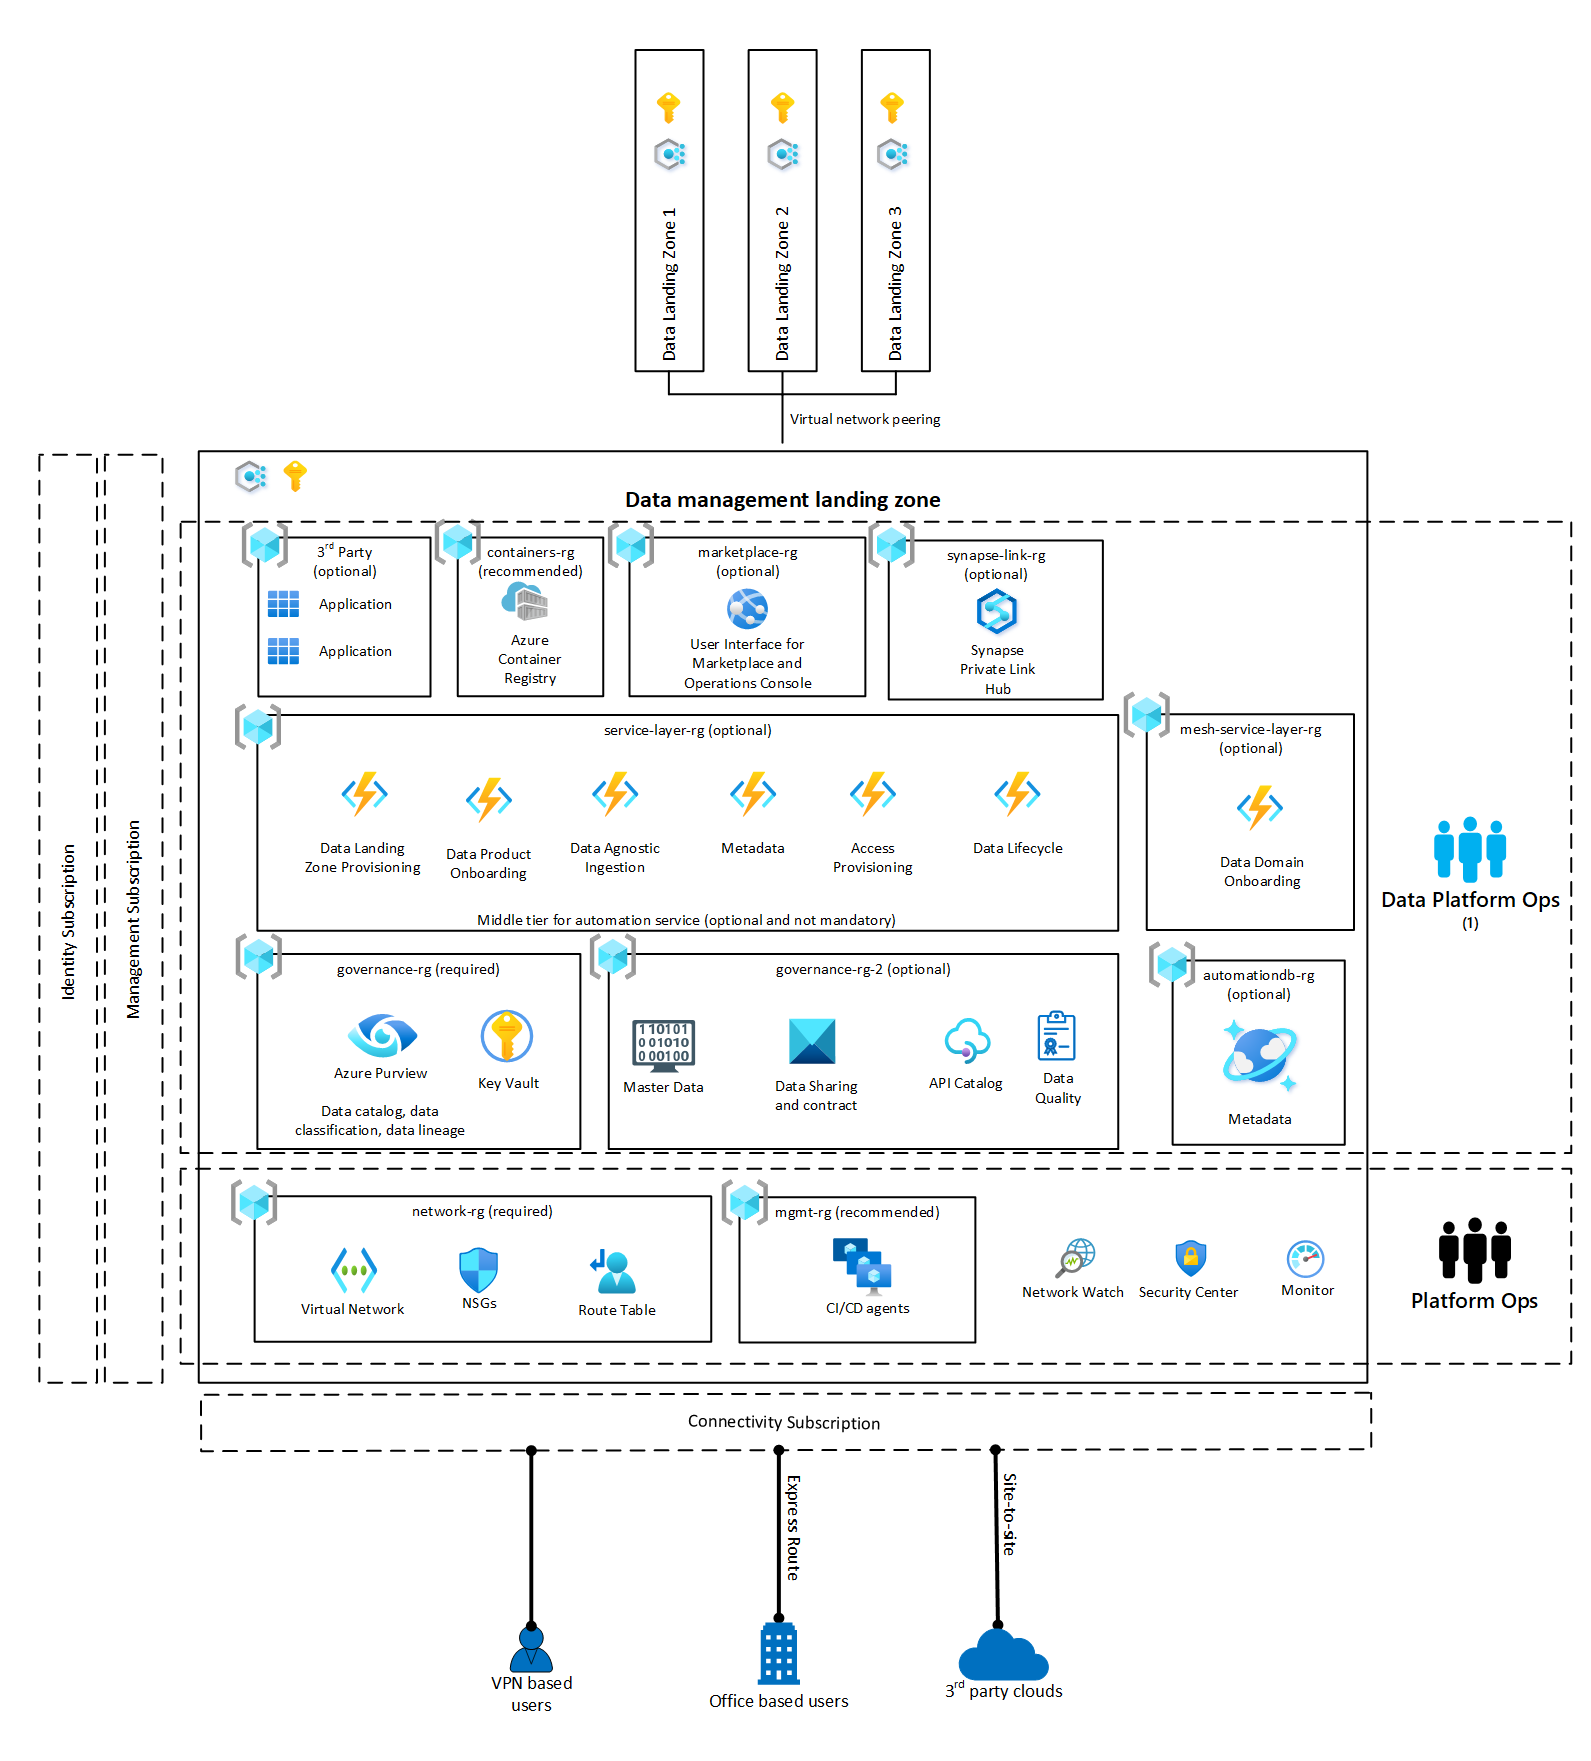
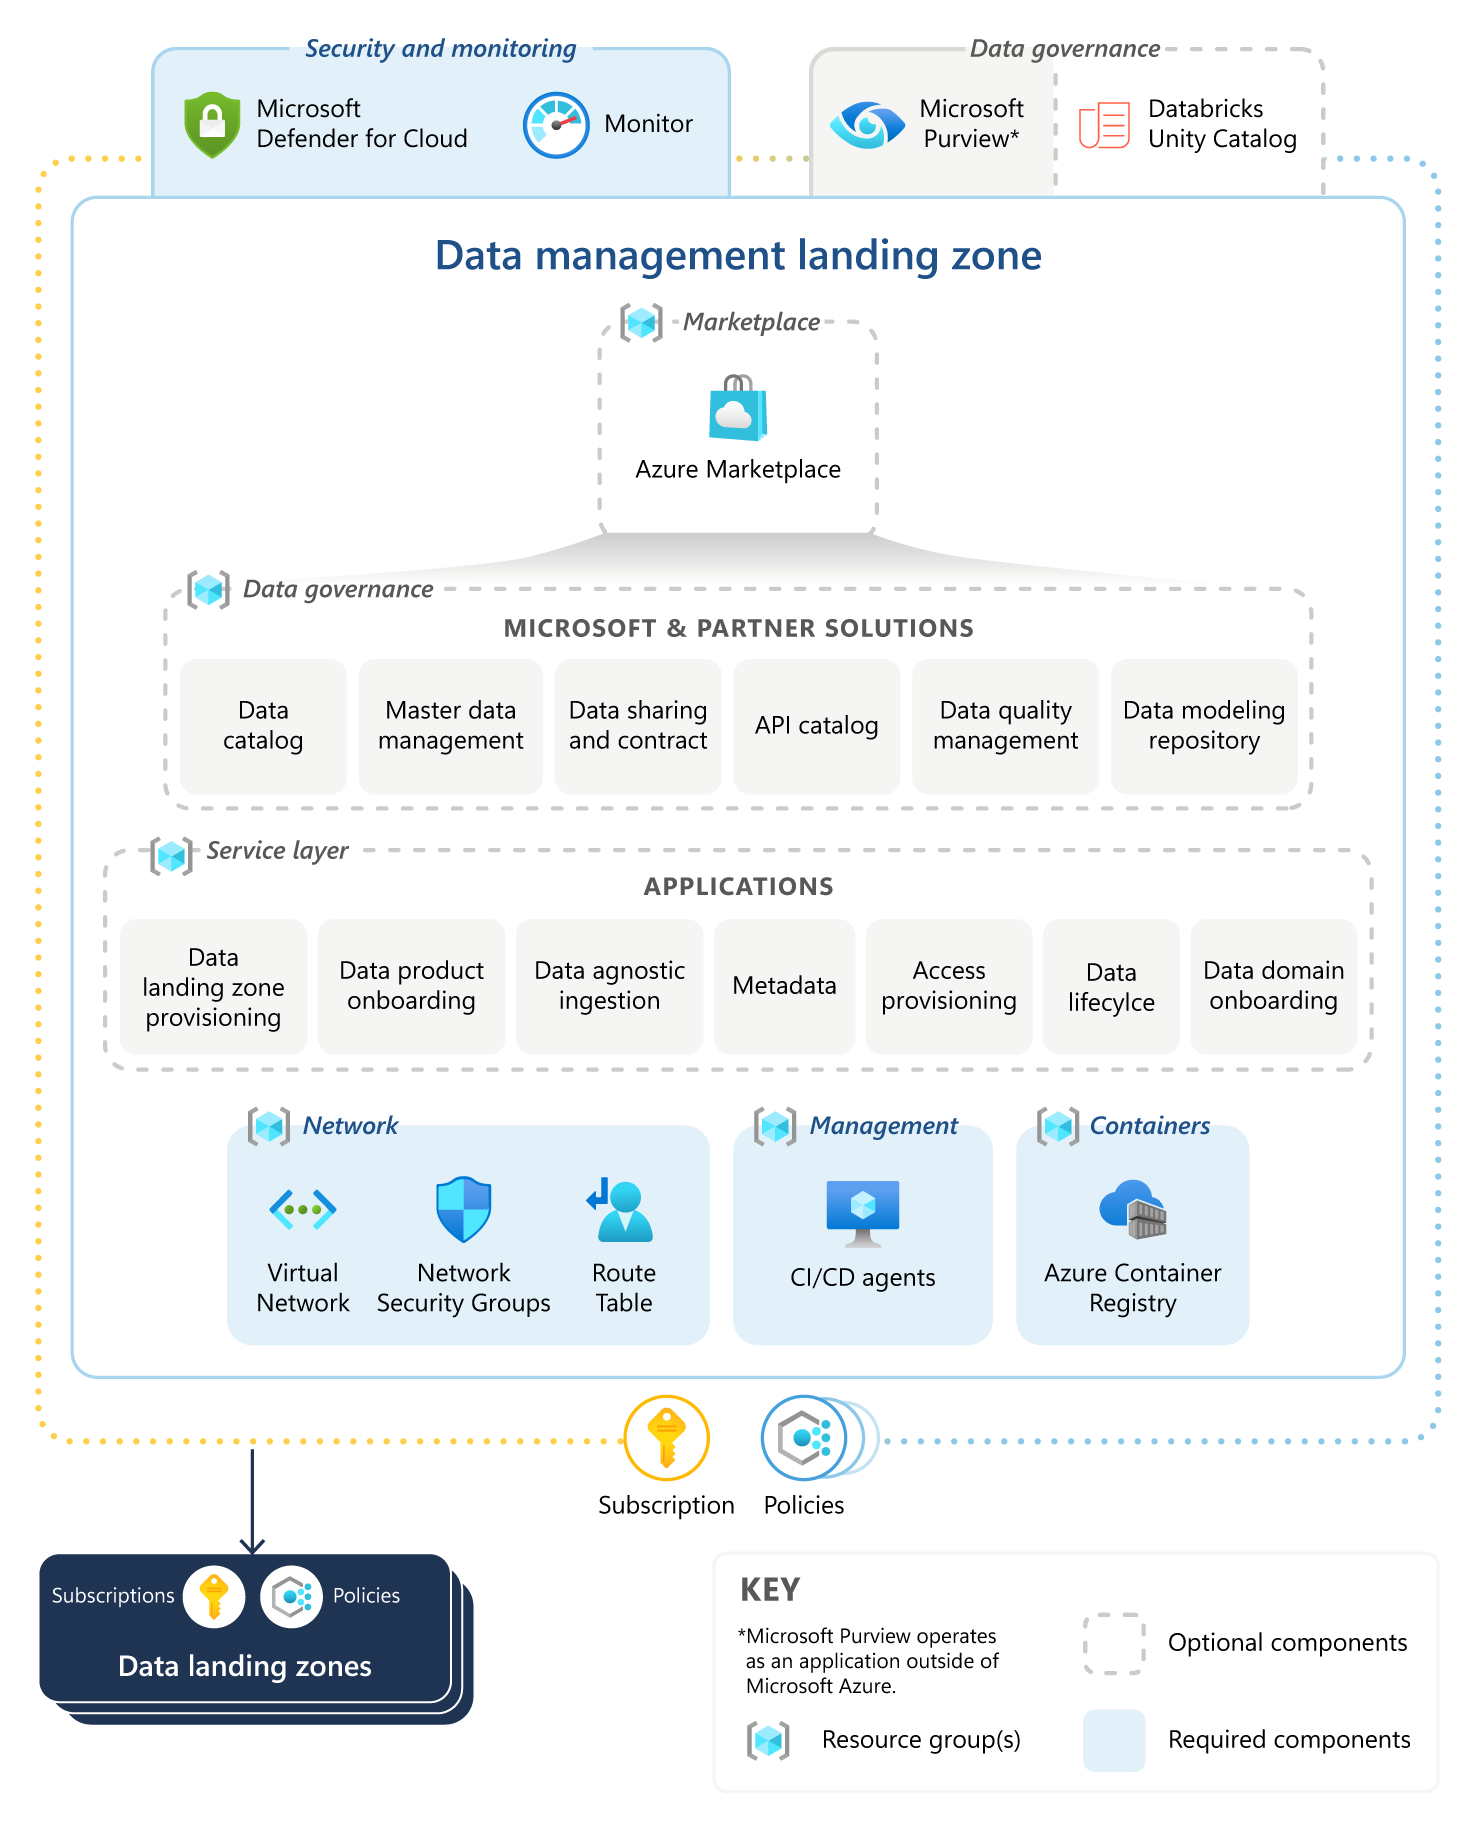
Update to data management landng zone

diff --git a/docs/scenarios/cloud-scale-analytics/architectures/data-management-landing-zone.md b/docs/scenarios/cloud-scale-analytics/architectures/data-management-landing-zone.md
@@ -3,7 +3,7 @@ title: Cloud-scale analytics data management landing zone overview
 description: Gain an overview of cloud-scale analytics data management landing zone in Azure
 author: mboswell
 ms.author: mboswell
-ms.date: 03/22/2022
+ms.date: 11/11/2024
 ms.topic: conceptual
 ms.custom: e2e-data-management, think-tank
 ---
@@ -16,7 +16,7 @@ The data management landing zone is a management function and is central to clou
 
 Your data management landing zone is a separate subscription that has the same standard Azure landing zone services. It allows data governance of your data via crawlers, which connect to your data lakes and polyglot storage in your data landing zones. Virtual network peering connects your data management landing zone to your data landing zones and connectivity subscription.
 
-Use this architecture as a starting point. Download the [Visio file](https://www.microsoft.com/download/details.aspx?id=104215) and modify it to fit your specific business and technical requirements when planning your data management landing zone implementation.
+Use this architecture as a starting point and modify it to fit your specific business and technical requirements when planning your data management landing zone implementation.
 
 > [!NOTE]
 > Polyglot persistence is a storage term that describes your choice between different data storage/data stores technologies to support your various data types and their storage needs. Essentially, polyglot persistence is the concept that an application can use more than one core database or storage technology.
@@ -26,15 +26,44 @@ Use this architecture as a starting point. Download the [Visio file](https://www
 
 ## Data catalog
 
-*Resource group: governance-rg*
+*Resource group: data governance*
 
 [!INCLUDE [data-catalog](../../cloud-scale-analytics/includes/data-catalog.md)]
 
 For more information, see [Data catalog](../../cloud-scale-analytics/govern-data-catalog.md) and [Microsoft Purview deployment best practices for cloud-scale analytics](../best-practices/purview-deployment.md).
 
+## Master data management
+
+*Resource group: data governance*
+
+Master data management control resides in the data management landing zone. [Master data management in data mesh](../../cloud-scale-analytics/architectures/data-mesh-master-data-management.md) contains specific considerations you should call out for data mesh.
+
+Many master data management solutions fully integrate with Microsoft Entra ID. This integration allows you to secure your data and provide different views for different user groups.
+
+For more information, see [Master data management system](../govern-master-data.md).
+
+## Data sharing and contracts
+
+*Resource group: data governance*
+
+Cloud-scale analytics uses
+[Microsoft Entra entitlement management](/azure/active-directory/governance/entitlement-management-overview) or [Microsoft Purview policies](../secure-data-privacy.md) to control access to data sharing. Even so, you might still require a sharing and contract repository. This repository is an organizational function and should reside in your data management landing zone.
+
+Your contracts should provide information on data validation, models, and security policies.
+
+For more information, see [Data contracts](../../cloud-scale-analytics/architectures/data-contracts.md)
+
+## API catalog
+
+*Resource group: data governance*
+
+Your data application teams across will likely create various APIs for their data application. These APIs can be difficult to discover across your organization. Placing an API catalog in your data management landing zone can solve this problem.
+
+An API catalog can help standardize your documentation and offers a place for internal collaboration on APIs. It also can drive consumption, publishing, and governance controls across your organization.
+
 ## Data quality management
 
-*Resource group: governance-rg2*
+*Resource group: data governance*
 
 Continue with your current solution.
 
@@ -46,61 +75,11 @@ For more information on data quality management, see [Data quality](../../cloud-
 
 ## Data modeling repository
 
-*Resource group: governance-rg2*
+*Resource group: data governance*
 
 You should capture and store entity relationship models in a central location within your data management landing zone. This provides data consumers a single place to find conceptual diagrams.
 
 Many customers use [ER Studio](https://www.idera.com/products/er-studio/enterprise-data-modeling) and [iServer](https://www.orbussoftware.com/solutions/enterprise-architecture/data-architecture) to model their data products before ingestion.
-
-## Master data management
-
-*Resource group: governance-rg2*
-
-Master data management control resides in the data management landing zone. [Master data management in data mesh](../../cloud-scale-analytics/architectures/data-mesh-master-data-management.md) contains specific considerations you should call out for data mesh.
-
-Many master data management solutions fully integrate with Microsoft Entra ID. This integration allows you to secure your data and provide different views for different user groups.
-
-For more information, see [Master data management system](../govern-master-data.md).
-
-## API catalog
-
-*Resource group: governance-rg2*
-
-Your data application teams across will likely create various APIs for their data application. These APIs can be difficult to discover across your organization. Placing an API catalog in your data management landing zone can solve this problem.
-
-An API catalog can help standardize your documentation and offers a place for internal collaboration on APIs. It also can drive consumption, publishing, and governance controls across your organization.
-
-## Data sharing and contracts
-
-*Resource group: governance-rg2*
-
-Cloud-scale analytics uses
-[Microsoft Entra entitlement management](/azure/active-directory/governance/entitlement-management-overview) or [Microsoft Purview policies](../secure-data-privacy.md) to control access to data sharing. Even so, you might still require a sharing and contract repository. This repository is an organizational function and should reside in your data management landing zone.
-
-Your contracts should provide information on data validation, models, and security policies.
-
-For more information, see [Data contracts](../../cloud-scale-analytics/architectures/data-contracts.md)
-
-## Azure Container Registry
-
-*Resource group: containers-rg*
-
-Your data management landing zone hosts an Azure Container Registry. The Azure Container Registry allows your data platform operations to deploy standard containers for use in data science projects that your data application teams consume.
-
-## Azure Synapse Private Link hubs
-
-*Resource group: synapse-link-rg*
-
-Azure Synapse Analytics Private Link hubs are Azure resources that connect your secured network and the Azure Synapse Studio web experience. Cloud-scale analytics securely connects your Azure Virtual Network to Azure Synapse Studio using private links from these hubs.
-
-There are two steps to connect to Azure Synapse studio using private links.
-
-1. Create a Private Link hub resource.
-2. Create a private endpoint from your Azure Virtual Network to that Private Link hub.
-
-You can then use private endpoints to securely communicate with Azure Synapse studio. Integrate these private endpoints with your DNS solution, either with your on-premises solution or with Azure Private DNS.
-
-For more information, see [Connect to Azure Synapse studio using private links](/azure/synapse-analytics/security/synapse-private-link-hubs).
 
 ## Automation interfaces (optional)
 
@@ -121,13 +100,19 @@ You can provision the **automationdb-rg** resource group to host your metadata s
 |--------------------------------|---------------------------------------------------------------------------------------------------------------------------------------------------------------------------------------------------------------------------------------------------------------------------------------------------|
 | Data landing zone provisioning | This service creates a new data landing zone. It's unlikely to have a high usage, but is included for end-to-end onboarding solution completeness. For more information, see [Provision the cloud-scale analytics](../../cloud-scale-analytics/manage-provision-platform.md)                                        |
 | Data product onboarding        | This service creates and amends resource groups that pertain to an onboarded tenant. It also contains capabilities to upgrade and degrade SKUs and to activate and deactivate resource groups for any onboarded tenant or service. It creates a new data landing zone DevOps. For more information, see [Provision the cloud-scale analytics](../../cloud-scale-analytics/manage-provision-platform.md) |
-| Access provisioning            | This service creates access packages, access policies, and asset access approval process (manual or automatic) using SPN/UPN. It can also expose an API to provide a list of subscription requests (assets) that users have submitted in the past 90 days. For more information, see [Data access management](../security-provisioning.md)         |
 | Data agnostic ingestion        | This microservice creates new data sources for ingestion into your data landing zones. It does this by communicating with an Azure Data Factory SQL Database metastore in each data landing zone. For more information, see [How automated ingestion frameworks support cloud-scale analytics in Azure](../best-practices/automated-ingestion-pattern.md) |
 | Metadata                       | This service exposed and creates metadata for the platform. For more information, see [Metadata standards](../../cloud-scale-analytics/govern-metadata-standards.md) |
+| Access provisioning            | This service creates access packages, access policies, and asset access approval process (manual or automatic) using SPN/UPN. It can also expose an API to provide a list of subscription requests (assets) that users have submitted in the past 90 days. For more information, see [Data access management](../security-provisioning.md)         |
 | Data lifecycle                 | This service is responsible for maintaining your data lifecycle based on metadata. This maintenance can include moving data to cold storage and deleting records that no longer need to be retained. For more information, see [Data lifecycle management](../../cloud-scale-analytics/govern-lifecycle.md)                                                                                              |
 | Data domain onboarding         | ONLY APPLICABLE TO DATA MESH. This service captures metadata pertaining to new domains and onboards the new domains as needed. It can also create, update, activate, and deactivate any domain or service line you might build into a microservice. For more information, see [Provision the cloud-scale analytics](../../cloud-scale-analytics/manage-provision-platform.md) |
 
-### Data standardization
+## Azure Container Registry
+
+*Resource group: containers*
+
+Your data management landing zone hosts an Azure Container Registry. The Azure Container Registry allows your data platform operations to deploy standard containers for use in data science projects that your data application teams consume.
+
+## Data standardization
 
 Although it isn't a specific feature or product of your data management landing zone, you should call out data standardization across all services. Data standardization defines the format in which your data should land and be stored.
 
